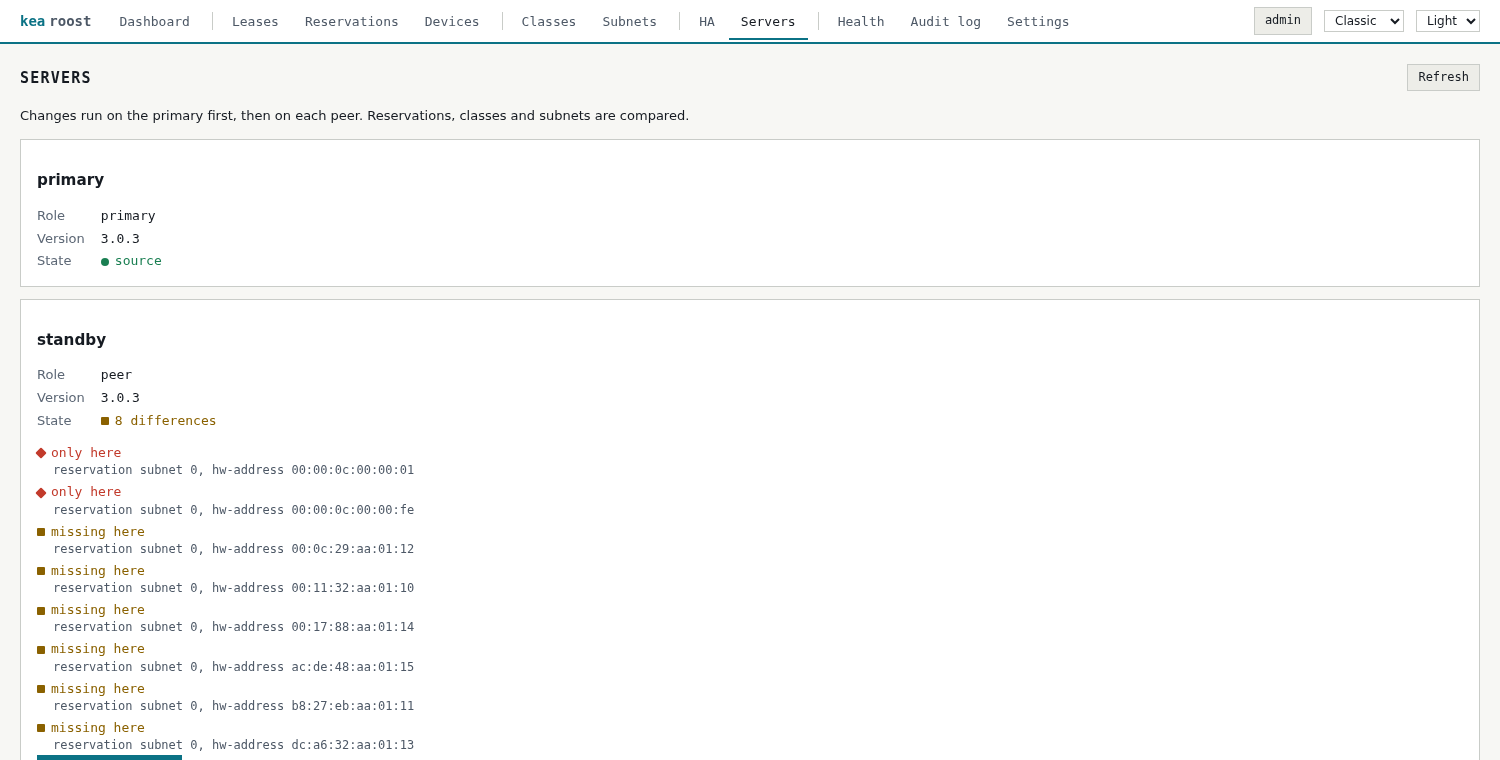
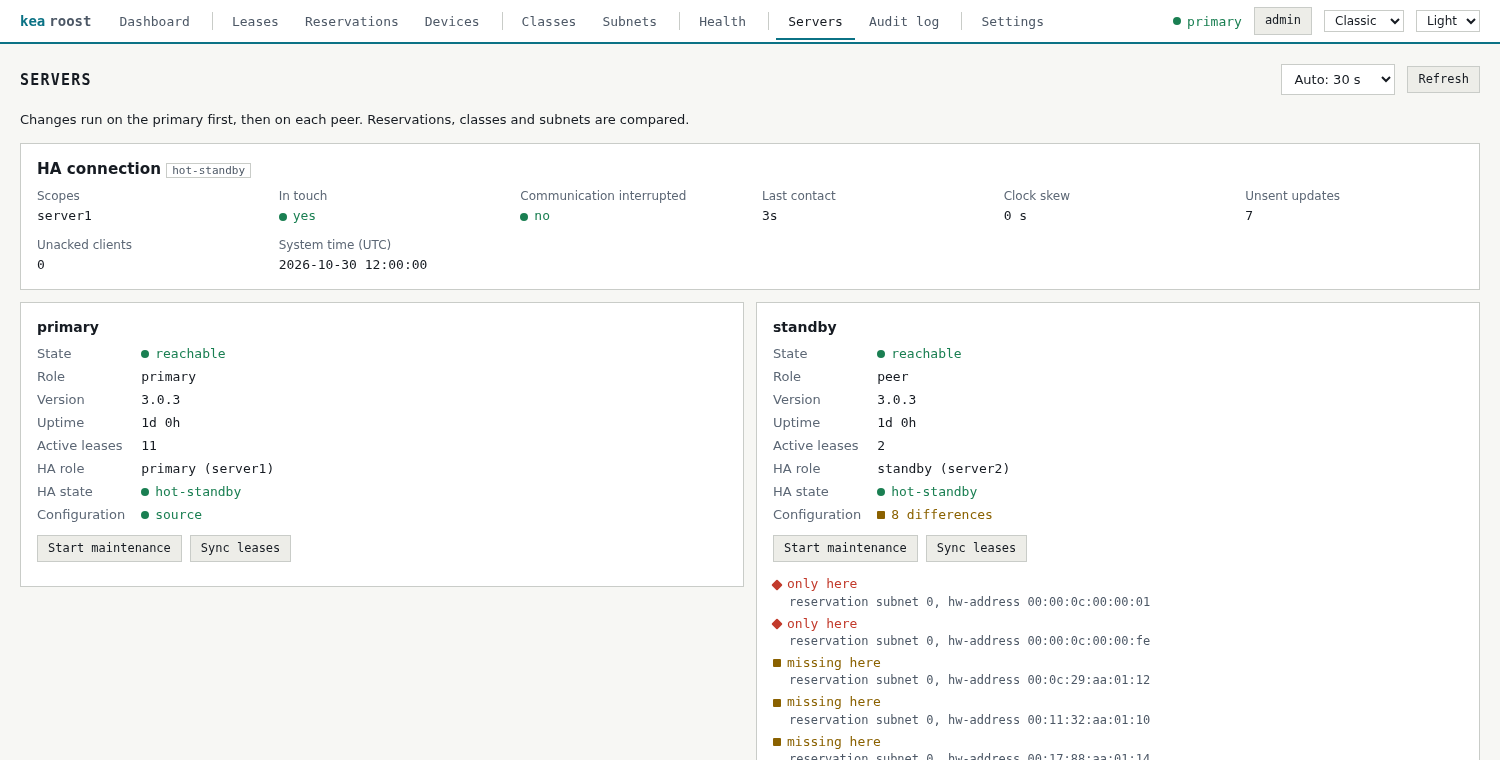
feat: regroup servers and ha

diff --git a/internal/web/static/app.js b/internal/web/static/app.js
@@ -282,7 +282,7 @@ pages.dashboard = () => {
         tile('Server', d.server.reachable ? state('ok', 'reachable') : state('crit', 'unreachable'), d.server.name),
         tile('Kea version', d.server.version || '–', d.server.uptime ? 'Uptime ' + fmtDuration(d.server.uptime) : ''),
         tile('HA state', ha ? state(d.ha[0].severity, ha['ha-servers'].local.state) : state('neutral', d.server.reachable ? 'no HA' : 'unknown'),
-          ha ? ha['ha-servers'].local.role : '', '#/ha'),
+          ha ? ha['ha-servers'].local.role : '', '#/servers'),
         tile('Active leases', fmtCount(d.activeLeases), d.totalLeases != null ? `${fmtCount(d.totalLeases)} total` : '', '#/leases'),
         tile('Reservations', fmtCount(d.reservations), '', '#/reservations'),
         tile('Subnets', fmtCount(d.subnetCount), '', '#/subnets'),
@@ -1002,28 +1002,6 @@ function addressMap(s) {
   return el;
 }
 
-pages.ha = () => {
-  const body = h('div', {});
-  const load = async () => {
-    try {
-      const d = await api('GET', 'dashboard');
-      updateChip(d.server);
-      const warnings = d.server.reachable ? d.haWarnings : d.warnings;
-      const content = [notes(warnings), ...d.ha.map(haCard)].filter(Boolean);
-      if (!d.ha.length && d.server.reachable) content.push(h('div', { class: 'panel empty' }, 'No HA status: hook libdhcp_ha is not loaded'));
-      if (meta.writable && d.ha.length) {
-        const { servers } = await api('GET', 'servers');
-        content.push(h('h2', {}, 'Operate'), ...servers.filter(s => s.ha).map(s => haActions(s, load)));
-      }
-      body.replaceChildren(...content);
-    } catch (err) {
-      body.replaceChildren(errorNote(err));
-    }
-  };
-  view.replaceChildren(h('div', { class: 'page-head' }, h('h1', {}, 'High availability'), refreshControls(load)), body);
-  load();
-};
-
 const HA_ACTIONS = {
   maintenance: {
     label: 'Start maintenance',
@@ -1038,41 +1016,37 @@ const HA_ACTIONS = {
   continue: { label: 'Continue', text: s => `Resumes the HA state machine of ${s.ha.name} if it is paused.` },
 };
 
-function haActions(s, reload) {
+function haButtons(s, reload) {
+  if (!s.ha || !meta.writable) return null;
   const path = action => `servers/${encodeURIComponent(s.name)}/ha/${action}`;
-  return h('div', { class: 'panel pad server-card' },
-    h('h3', {}, s.name), h('p', {}, state('neutral', s.ha.state)),
-    s.ha.actions.length ? h('div', { class: 'ha-actions' }, s.ha.actions.map(a => h('button', {
-      onclick: () => confirmDialog(HA_ACTIONS[a].label + ': ' + s.name, HA_ACTIONS[a].text(s), HA_ACTIONS[a].label,
-        async () => showResult(await api('POST', path(a)), reload)),
-    }, HA_ACTIONS[a].label))) : h('p', { class: 'muted' }, 'Nothing to do in this state'));
+  return h('div', { class: 'ha-actions' }, s.ha.actions.map(a => h('button', {
+    onclick: () => confirmDialog(HA_ACTIONS[a].label + ': ' + s.name, HA_ACTIONS[a].text(s), HA_ACTIONS[a].label,
+      async () => showResult(await api('POST', path(a)), reload)),
+  }, HA_ACTIONS[a].label)));
 }
 
-function haCard(ha) {
-  const dl = (key, value) => [h('dt', {}, key), h('dd', {}, value)];
+const HA_STATE_KIND = {
+  'hot-standby': 'ok', 'load-balancing': 'ok', backup: 'ok', 'passive-backup': 'ok',
+  terminated: 'crit', 'partner-down': 'warn', 'in-maintenance': 'warn', 'partner-in-maintenance': 'warn',
+  waiting: 'warn', syncing: 'warn', ready: 'warn',
+};
+
+// haLink holds what belongs to the pair rather than to one server, as the primary sees it.
+function haLink(ha) {
   const { local, remote } = ha['ha-servers'];
   const yes = (flag, bad) => flag === bad ? state('crit', flag ? 'yes' : 'no') : state('ok', flag ? 'yes' : 'no');
-  return h('div', {},
-    h('p', {}, h('span', { class: 'tag' }, ha['ha-mode'])),
-    h('div', { class: 'columns' },
-      h('div', { class: 'panel pad' },
-        h('h3', {}, 'This server: ' + local['server-name']),
-        h('dl', { class: 'kv' },
-          dl('Role', local.role),
-          dl('State', state(ha.severity, local.state)),
-          dl('Scopes', (local.scopes || []).join(', ') || '–'),
-          dl('System time (UTC)', local['system-time'] || '–'),
-          dl('Unsent updates', fmtCount(ha.unsentUpdates)))),
-      remote ? h('div', { class: 'panel pad' },
-        h('h3', {}, 'Partner: ' + remote['server-name']),
-        h('dl', { class: 'kv' },
-          dl('Role', remote.role),
-          dl('Last state', remote['last-state'] || '–'),
-          dl('In touch', yes(remote['in-touch'], false)),
-          dl('Communication interrupted', yes(remote['communication-interrupted'], true)),
-          dl('Last contact', remote.age != null ? fmtDuration(remote.age) : '–'),
-          dl('Clock skew', remote['clock-skew'] != null ? remote['clock-skew'] + ' s' : '–'),
-          dl('Unacked clients', fmtCount(remote['unacked-clients'])))) : null));
+  return h('div', { class: 'panel pad ha-link' },
+    h('h3', {}, 'HA connection ', h('span', { class: 'tag' }, ha['ha-mode'])),
+    h('dl', { class: 'facts' }, [
+      ['Scopes', (local.scopes || []).join(', ') || '–'],
+      remote && ['In touch', yes(remote['in-touch'], false)],
+      remote && ['Communication interrupted', yes(remote['communication-interrupted'], true)],
+      remote && ['Last contact', remote.age != null ? fmtDuration(remote.age) : '–'],
+      remote && ['Clock skew', remote['clock-skew'] != null ? remote['clock-skew'] + ' s' : '–'],
+      ['Unsent updates', fmtCount(ha.unsentUpdates)],
+      remote && ['Unacked clients', fmtCount(remote['unacked-clients'])],
+      ['System time (UTC)', local['system-time'] || '–'],
+    ].filter(Boolean).map(([key, value]) => h('div', {}, h('dt', {}, key), h('dd', {}, value)))));
 }
 
 pages.audit = () => {
@@ -1124,22 +1098,28 @@ pages.audit = () => {
 };
 
 pages.servers = () => {
-  const notice = h('div');
-  const list = h('div');
+  const body = h('div');
   const load = async () => {
     try {
-      const { servers } = await api('GET', 'servers');
-      list.replaceChildren(...servers.map(s => serverCard(s, load)));
-      notice.replaceChildren();
+      const [d, { servers }] = await Promise.all([api('GET', 'dashboard'), api('GET', 'servers')]);
+      updateChip(d.server);
+      const several = servers.length > 1;
+      body.replaceChildren(...[
+        notes(d.server.reachable ? d.haWarnings : d.warnings),
+        several ? h('p', { class: 'muted' }, 'Changes run on the primary first, then on each peer. Reservations, classes and subnets are compared.') : null,
+        d.ha.length ? haLink(d.ha[0]) : null,
+        !d.ha.length && d.server.reachable ? h('p', { class: 'muted' }, 'No HA: the hook libdhcp_ha is not loaded.') : null,
+        h('div', { class: 'columns server-list' }, servers.map(s => serverCard(s, d.servers.find(r => r.name === s.name) ?? { uptime: d.server.uptime, activeLeases: d.activeLeases }, several, load))),
+      ].filter(Boolean));
     } catch (err) {
-      notice.replaceChildren(errorNote(err));
+      body.replaceChildren(errorNote(err));
     }
   };
-  view.replaceChildren(h('div', { class: 'page-head' }, h('h1', {}, 'Servers'), h('button', { onclick: load }, 'Refresh')),
-    h('p', { class: 'muted' }, 'Changes run on the primary first, then on each peer. Reservations, classes and subnets are compared.'),
-    notice, list);
+  view.replaceChildren(h('div', { class: 'page-head' }, h('h1', {}, 'Servers'), refreshControls(load)), body);
   load();
 };
+// HA used to have a page of its own
+pages.ha = pages.servers;
 
 function serverOverview(rows) {
   const table = dataTable({
@@ -1169,17 +1149,25 @@ function serverState(s) {
   return s.differences.length ? state('warn', s.differences.length === 1 ? '1 difference' : `${s.differences.length} differences`) : state('ok', 'in sync');
 }
 
-function serverCard(s, reload) {
+// serverCard joins the comparison of a server with its row of the dashboard.
+function serverCard(s, row, several, reload) {
   const syncable = s.differences.filter(d => !d.manual);
   const removed = syncable.filter(d => d.change === 'extra').length;
   const changeText = { missing: 'missing here', extra: 'only here', different: 'different' };
   return h('div', { class: 'panel pad server-card' },
     h('h3', {}, s.name),
-    h('dl', { class: 'kv' },
-      h('dt', {}, 'Role'), h('dd', {}, s.role),
-      h('dt', {}, 'Version'), h('dd', {}, s.version || '–'),
-      h('dt', {}, 'State'), h('dd', {}, serverState(s))),
+    kvRows([
+      ['State', s.reachable ? state('ok', 'reachable') : state('crit', 'unreachable')],
+      several && ['Role', s.role],
+      ['Version', s.version || '–'],
+      row?.uptime && ['Uptime', fmtDuration(row.uptime)],
+      row?.activeLeases != null && ['Active leases', fmtCount(row.activeLeases)],
+      s.ha && ['HA role', s.ha.name.toLowerCase() === s.name.toLowerCase() ? s.ha.role : `${s.ha.role} (${s.ha.name})`],
+      s.ha && ['HA state', state(HA_STATE_KIND[s.ha.state] || 'neutral', s.ha.state)],
+      several && ['Configuration', serverState(s)],
+    ]),
     s.error ? h('div', { class: 'note crit' }, s.error) : null,
+    haButtons(s, reload),
     s.differences.length ? h('ul', { class: 'steps' }, s.differences.map(d => h('li', {},
       state(d.change === 'extra' ? 'crit' : 'warn', changeText[d.change]),
       h('span', { class: 'detail' }, `${d.kind} ${d.target}${d.manual ? ' (fix in the configuration file)' : ''}`)))) : null,
@@ -1737,11 +1725,12 @@ async function start() {
     [['dashboard', 'Dashboard']],
     [['leases', 'Leases'], ['reservations', 'Reservations'], meta.devices && ['devices', 'Devices']],
     [['classes', 'Classes'], ['subnets', 'Subnets']],
-    [['ha', 'HA'], meta.peers && ['servers', 'Servers']],
-    [['health', 'Health'], meta.writable && ['audit', 'Audit log'], meta.writable && ['settings', 'Settings']],
-  ];
+    [['health', 'Health']],
+    [['servers', 'Servers'], meta.writable && ['audit', 'Audit log']],
+    [meta.writable && ['settings', 'Settings']],
+  ].map(group => group.filter(Boolean)).filter(group => group.length);
   document.getElementById('nav').replaceChildren(...groups.map(group => h('div', { class: 'nav-group' },
-    group.filter(Boolean).map(([page, label]) => h('a', { href: '#/' + page, 'data-page': page }, label)))));
+    group.map(([page, label]) => h('a', { href: '#/' + page, 'data-page': page }, label)))));
   document.querySelector('.brand').title = 'Kea Roost ' + meta.version;
   document.getElementById('server-chip').replaceChildren();
   document.getElementById('account').replaceChildren(h('button', { class: 'small account-button', title: 'Password, 2FA, log out', onclick: accountDialog },

diff --git a/internal/web/static/style.css b/internal/web/static/style.css
@@ -291,7 +291,13 @@ html[data-theme="classic"] th { text-transform: uppercase; font-size: 11px; lett
 html[data-theme="classic"] td { padding: 3px 10px; }
 html[data-theme="classic"] td.mono { font-size: 12px; }
 .server-card { margin-bottom: 12px; }
-.ha-actions { display: flex; gap: 8px; flex-wrap: wrap; }
+.ha-actions { display: flex; gap: 8px; flex-wrap: wrap; margin: 10px 0; }
+.ha-link { margin-bottom: 12px; }
+.ha-link h3 { margin: 0 0 8px; }
+.ha-link .facts { display: grid; grid-template-columns: repeat(auto-fill, minmax(190px, 1fr)); gap: 10px 24px; margin: 0; }
+.facts dt { color: var(--ink-3); font-size: 12px; }
+.facts dd { margin: 2px 0 0; font-family: var(--mono); font-size: 13px; white-space: nowrap; }
+.server-list { align-items: start; }
 dialog.wide { width: min(1000px, calc(100vw - 24px)); }
 dialog h3 { margin: 16px 0 8px; font: 600 13px var(--sans); color: var(--ink-2, var(--ink)); }
 .client-sub { margin: -8px 0 12px; color: var(--ink-3); font: 12px var(--mono); overflow-wrap: anywhere; }

diff --git a/internal/web/e2e_test.go b/internal/web/e2e_test.go
@@ -35,6 +35,9 @@ const (
 // Replaced by the screenshots, which show more devices than the tests need.
 var monitorAnswer, dashboardAnswer string
 
+// withoutPeer starts the next browser with a single Kea server without HA.
+var withoutPeer bool
+
 type browser struct {
 	t    *testing.T
 	ctx  context.Context
@@ -99,16 +102,25 @@ func startWith(t *testing.T, accounts web.Auth, loggedIn bool) *browser {
 	}
 	mgr := manager.New(client, store, "primary")
 	mgr.SetARPMonitor(monitor.URL)
+	if withoutPeer {
+		fake.HA = nil
+	}
 	peer := keatest.New()
 	seed(peer)
 	peer.Hosts = append(peer.Hosts, map[string]any{"subnet-id": 0, "hw-address": "00:00:0c:00:00:fe", "ip-address": "192.0.2.250"})
+	// the peer is the other half of the pair
+	servers := peer.HA[0].(map[string]any)["ha-servers"].(map[string]any)
+	local, remote := servers["local"].(map[string]any), servers["remote"].(map[string]any)
+	local["server-name"], local["role"], remote["server-name"], remote["role"] = "server2", "standby", "server1", "primary"
 	peerSrv := httptest.NewServer(peer)
 	t.Cleanup(peerSrv.Close)
 	peerClient, err := kea.NewClient(kea.Options{URL: peerSrv.URL})
 	if err != nil {
 		t.Fatal(err)
 	}
-	mgr.AddPeer("standby", peerClient)
+	if !withoutPeer {
+		mgr.AddPeer("standby", peerClient)
+	}
 	dashboard := httptest.NewServer(http.HandlerFunc(func(w http.ResponseWriter, _ *http.Request) {
 		if dashboardAnswer != "" {
 			fmt.Fprint(w, dashboardAnswer)
@@ -574,14 +586,33 @@ func TestDashboardListsBothServers(t *testing.T) {
 	b.poll(`document.body.innerText.includes('standby') && document.body.innerText.includes('1 differ')`)
 }
 
-func TestHAPageOperatesAServer(t *testing.T) {
+func TestServersPageOperatesHA(t *testing.T) {
 	b := start(t)
-	b.do(chromedp.Navigate(b.url + "/#/ha"))
+	b.do(chromedp.Navigate(b.url + "/#/servers"))
 	b.poll(`[...document.querySelectorAll('button')].some(x => x.textContent === 'Start maintenance')`)
 	b.exec(`[...document.querySelectorAll('.server-card')].find(x => x.textContent.includes('standby')).querySelector('button').click()`)
 	b.poll(`document.querySelector('dialog')?.textContent.includes('takes over all DHCP traffic')`)
 	b.exec(`document.querySelector('dialog button.solid').click()`)
 	b.poll(`document.querySelector('dialog h2')?.textContent === 'Change succeeded'`)
+}
+
+func TestServersPageWithOneServer(t *testing.T) {
+	withoutPeer = true
+	b := start(t)
+	withoutPeer = false
+	b.do(chromedp.Navigate(b.url + "/#/servers"))
+	b.poll(`document.querySelectorAll('.server-card').length === 1`)
+	got := b.text(`document.querySelector('main').innerText`)
+	for _, part := range []string{"No HA", "3.0.3"} {
+		if !strings.Contains(got, part) {
+			t.Errorf("%s missing in %s", part, got)
+		}
+	}
+	for _, part := range []string{"Configuration", "Changes run on the primary", "Copy from primary"} {
+		if strings.Contains(got, part) {
+			t.Errorf("%s belongs to several servers: %s", part, got)
+		}
+	}
 }
 
 func TestClientPopupExplainsAddress(t *testing.T) {
@@ -654,7 +685,7 @@ func TestNavigationIsGrouped(t *testing.T) {
 	b := start(t)
 	b.open("dashboard", "Dashboard")
 	got := b.text(`[...document.querySelectorAll('.nav-group')].map(g => [...g.children].map(a => a.textContent).join('+')).join(' | ')`)
-	if want := "Dashboard | Leases+Reservations+Devices | Classes+Subnets | HA+Servers | Health+Audit log+Settings"; got != want {
+	if want := "Dashboard | Leases+Reservations+Devices | Classes+Subnets | Health | Servers+Audit log | Settings"; got != want {
 		t.Fatalf("got %s", got)
 	}
 	b.open("subnets", "Subnets")

diff --git a/internal/web/screenshots_test.go b/internal/web/screenshots_test.go
@@ -135,11 +135,8 @@ func TestScreenshots(t *testing.T) {
 	shot("client")
 	b.exec(`document.querySelector('dialog .dialog-close').click()`)
 	b.do(chromedp.Navigate(b.url + "/#/servers"))
-	b.poll(`document.querySelectorAll('.server-card').length === 2`)
+	b.poll(`document.querySelectorAll('.server-card').length === 2 && document.querySelector('.ha-link') !== null`)
 	shot("servers")
-	b.do(chromedp.Navigate(b.url + "/#/ha"))
-	b.poll(`document.querySelector('.ha-actions') !== null`)
-	shot("ha")
 	b.do(chromedp.Navigate(b.url + "/#/settings"))
 	b.poll(`document.querySelector('input[name="reviewDays"]') !== null`)
 	shot("settings")

diff --git a/internal/web/web.go b/internal/web/web.go
@@ -284,7 +284,6 @@ func (s *server) meta(w http.ResponseWriter, r *http.Request) {
 		"writable":   currentRole(r) == auth_.RoleAdmin,
 		"role":       currentRole(r),
 		"devices":    s.mgr.DevicesEnabled(),
-		"peers":      s.mgr.HasPeers(),
 		"version":    s.mgr.Version(),
 		"user":       user(r),
 	})

diff --git a/docs/several-servers.md b/docs/several-servers.md
@@ -21,8 +21,8 @@ reservations, client classes and subnets of all servers the same:
   a peer match it, which also deletes what only the peer holds. Subnets that are
   missing, extra or hold their own reservations stay manual.
 - Deleting a lease also deletes it on the peers.
-- The HA page operates the pair: start and end maintenance, sync leases, reset and
-  continue. It offers what the state of the server allows, and every action is
+- The Servers page also operates HA: start and end maintenance, sync leases, reset
+  and continue. Each server offers what its HA state allows, and every action is
   written to the audit log. Maintenance needs both servers in `KEA_PEERS`.
 
 Every peer needs the hooks of the primary, a control socket with the same login,
@@ -31,10 +31,11 @@ areas, such as global options, are neither compared nor copied.
 
 ## In the interface
 
-The dashboard lists every server, and the Servers page shows what differs from the primary.
+The dashboard lists every server. The Servers page shows the HA connection of the pair
+and one card per server with its HA state, the HA actions and what differs from the
+primary.
 
-![Servers page comparing two Kea servers](screenshots/servers.png)
+![Servers page with the HA connection and two Kea servers](screenshots/servers.png)
 
-The HA page shows the state of the pair and offers what that state allows.
-
-![HA page with the state of both servers and the actions to operate them](screenshots/ha.png)
+With a single server, the page shows its state, version and uptime, and the HA state
+when the HA hook is loaded.

diff --git a/docs/kea-configuration.md b/docs/kea-configuration.md
@@ -9,7 +9,7 @@ The manager does not change the Kea installation. Tested with Kea 3.0.3 and 3.0.
 
 - a `control-sockets` entry of type `http` or `https`,
 - the hooks `libdhcp_lease_cmds.so` and `libdhcp_host_cmds.so`,
-- `libdhcp_ha.so` for the HA page,
+- `libdhcp_ha.so` for the HA state and actions on the Servers page,
 - `libdhcp_subnet_cmds.so` to edit subnets on the subnets page,
 - `libdhcp_class_cmds.so` to edit client classes on the classes page.
 
